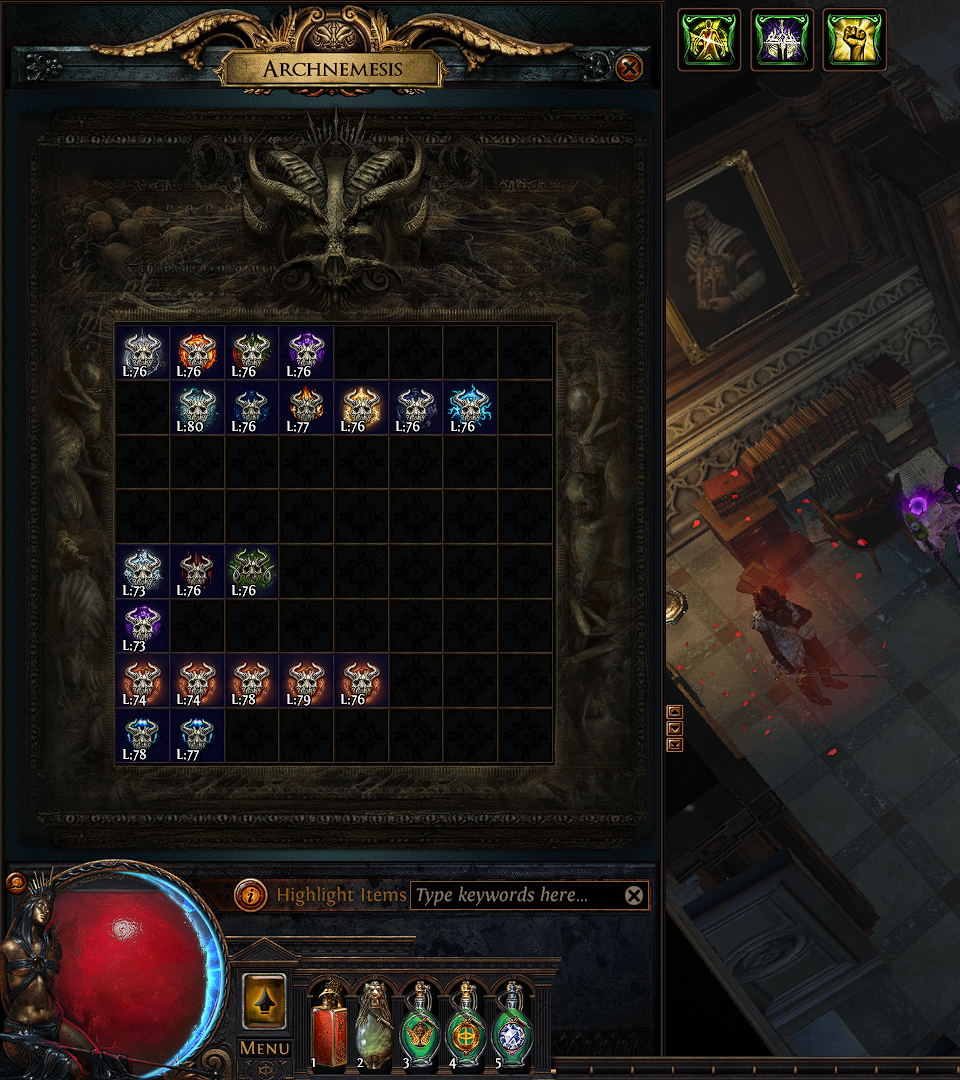
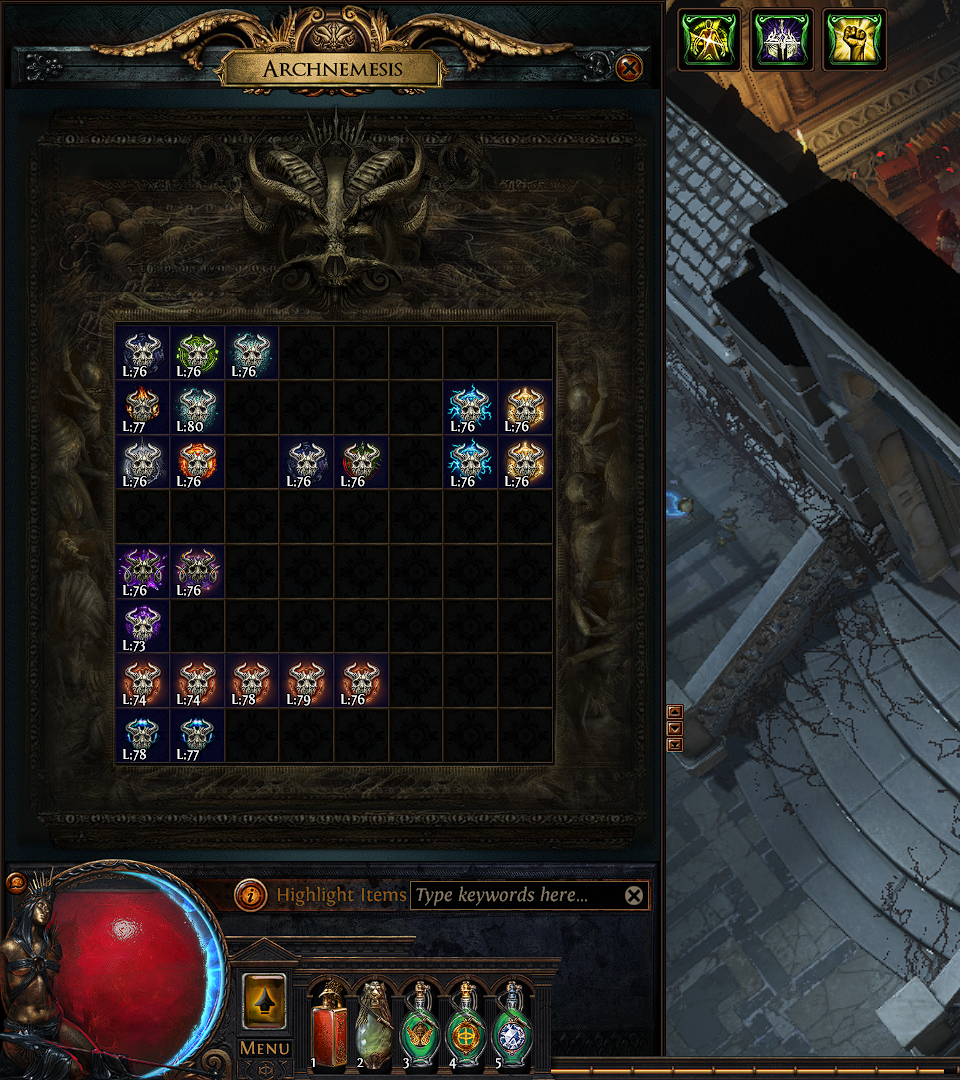
Inventory Type was fixed, New Archnemesis images was added, Selecting recipe inifinite list was fixed

Changed region(s): [[0.5625, 0.0, 1.0, 1.0], [0.125, 0.3056, 0.5938, 0.4583], [0.125, 0.4889, 0.3125, 0.55]]

diff --git a/src/main.go b/src/main.go
@@ -36,7 +36,7 @@ var (
 
 	currentRecipe string
 	currentAction int      = 0
-	actions       []string = []string{"My Inventary", "What can i do?"}
+	actions       []string = []string{"My Inventory", "What can I do?"}
 	totalActions  int      = len(actions) - 1
 )
 
@@ -375,6 +375,7 @@ func screenshot(g *gocui.Gui, v *gocui.View) error {
 }
 
 func nextView(g *gocui.Gui, v *gocui.View) error {
+	g.Cursor = false
 	if !ui.CanChangeView {
 		return nil
 	}
@@ -449,6 +450,7 @@ func recipeEnter(g *gocui.Gui, v *gocui.View) error {
 
 		// fill the information
 		recipes := recipesDict.ToMapString()
+		v.Clear()
 		v.Title = fmt.Sprintf("Select Recipe you want (%d)", len(recipes))
 
 		ox, oy := v.Origin()
